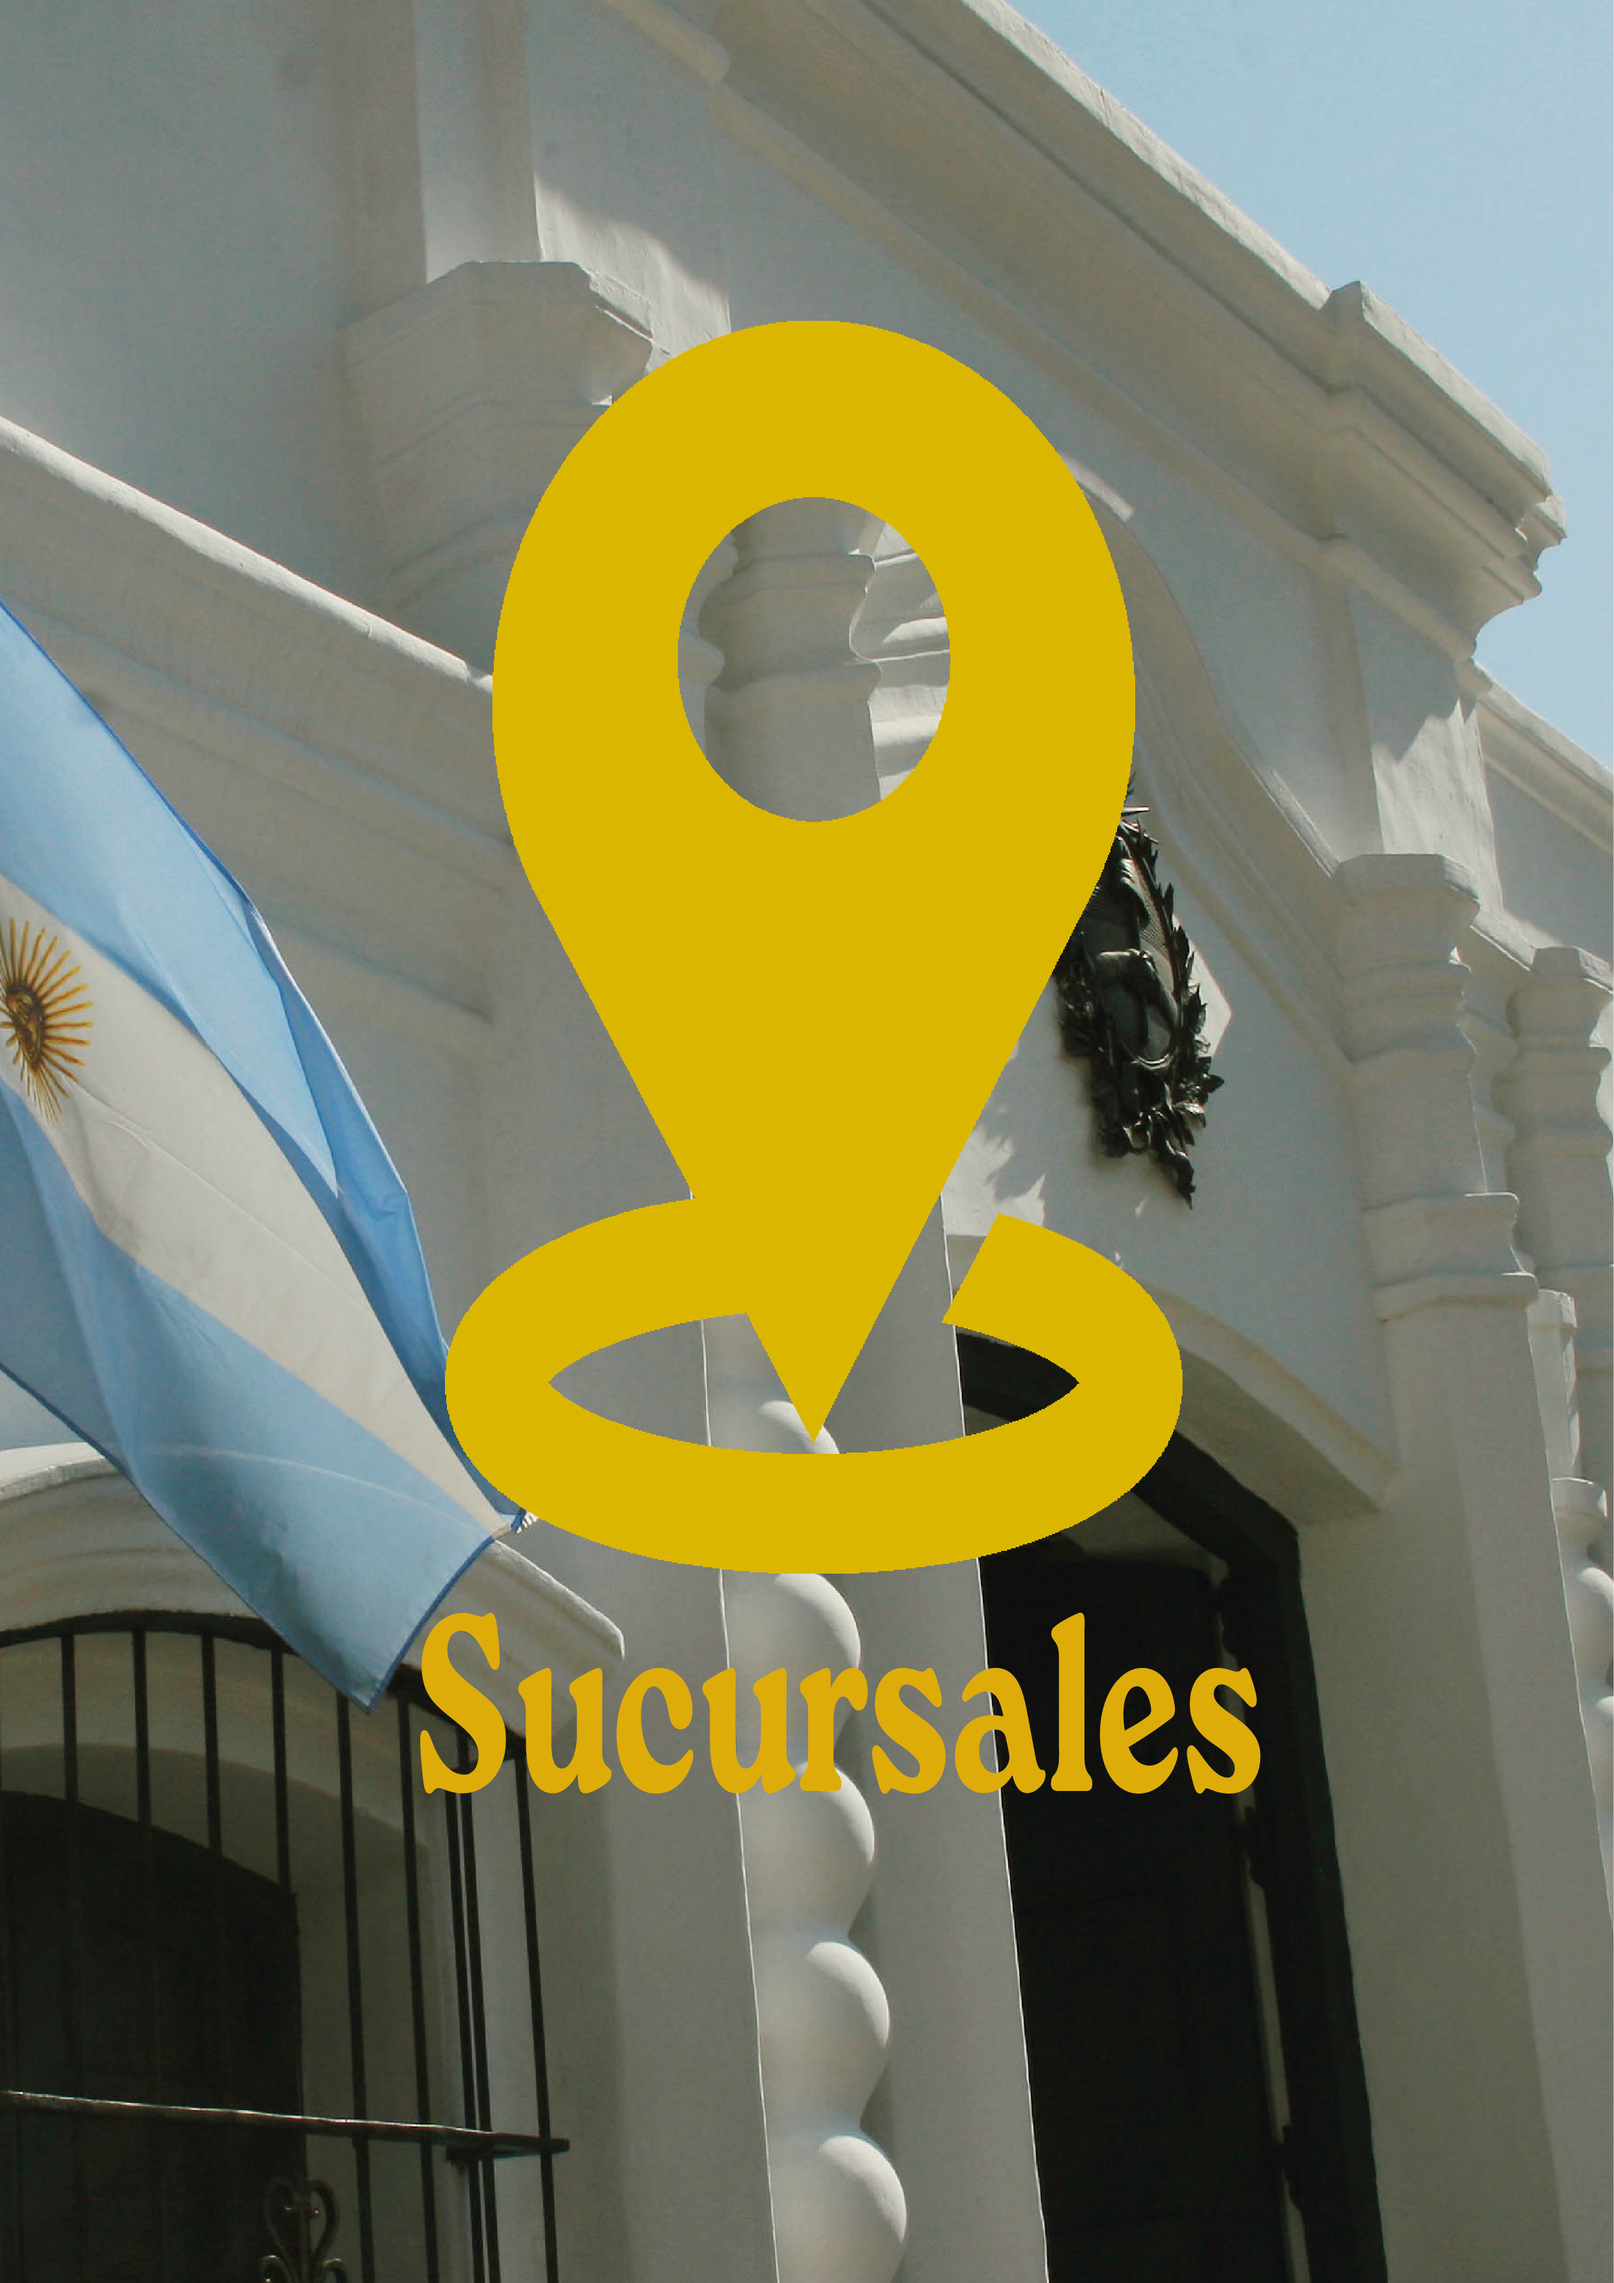
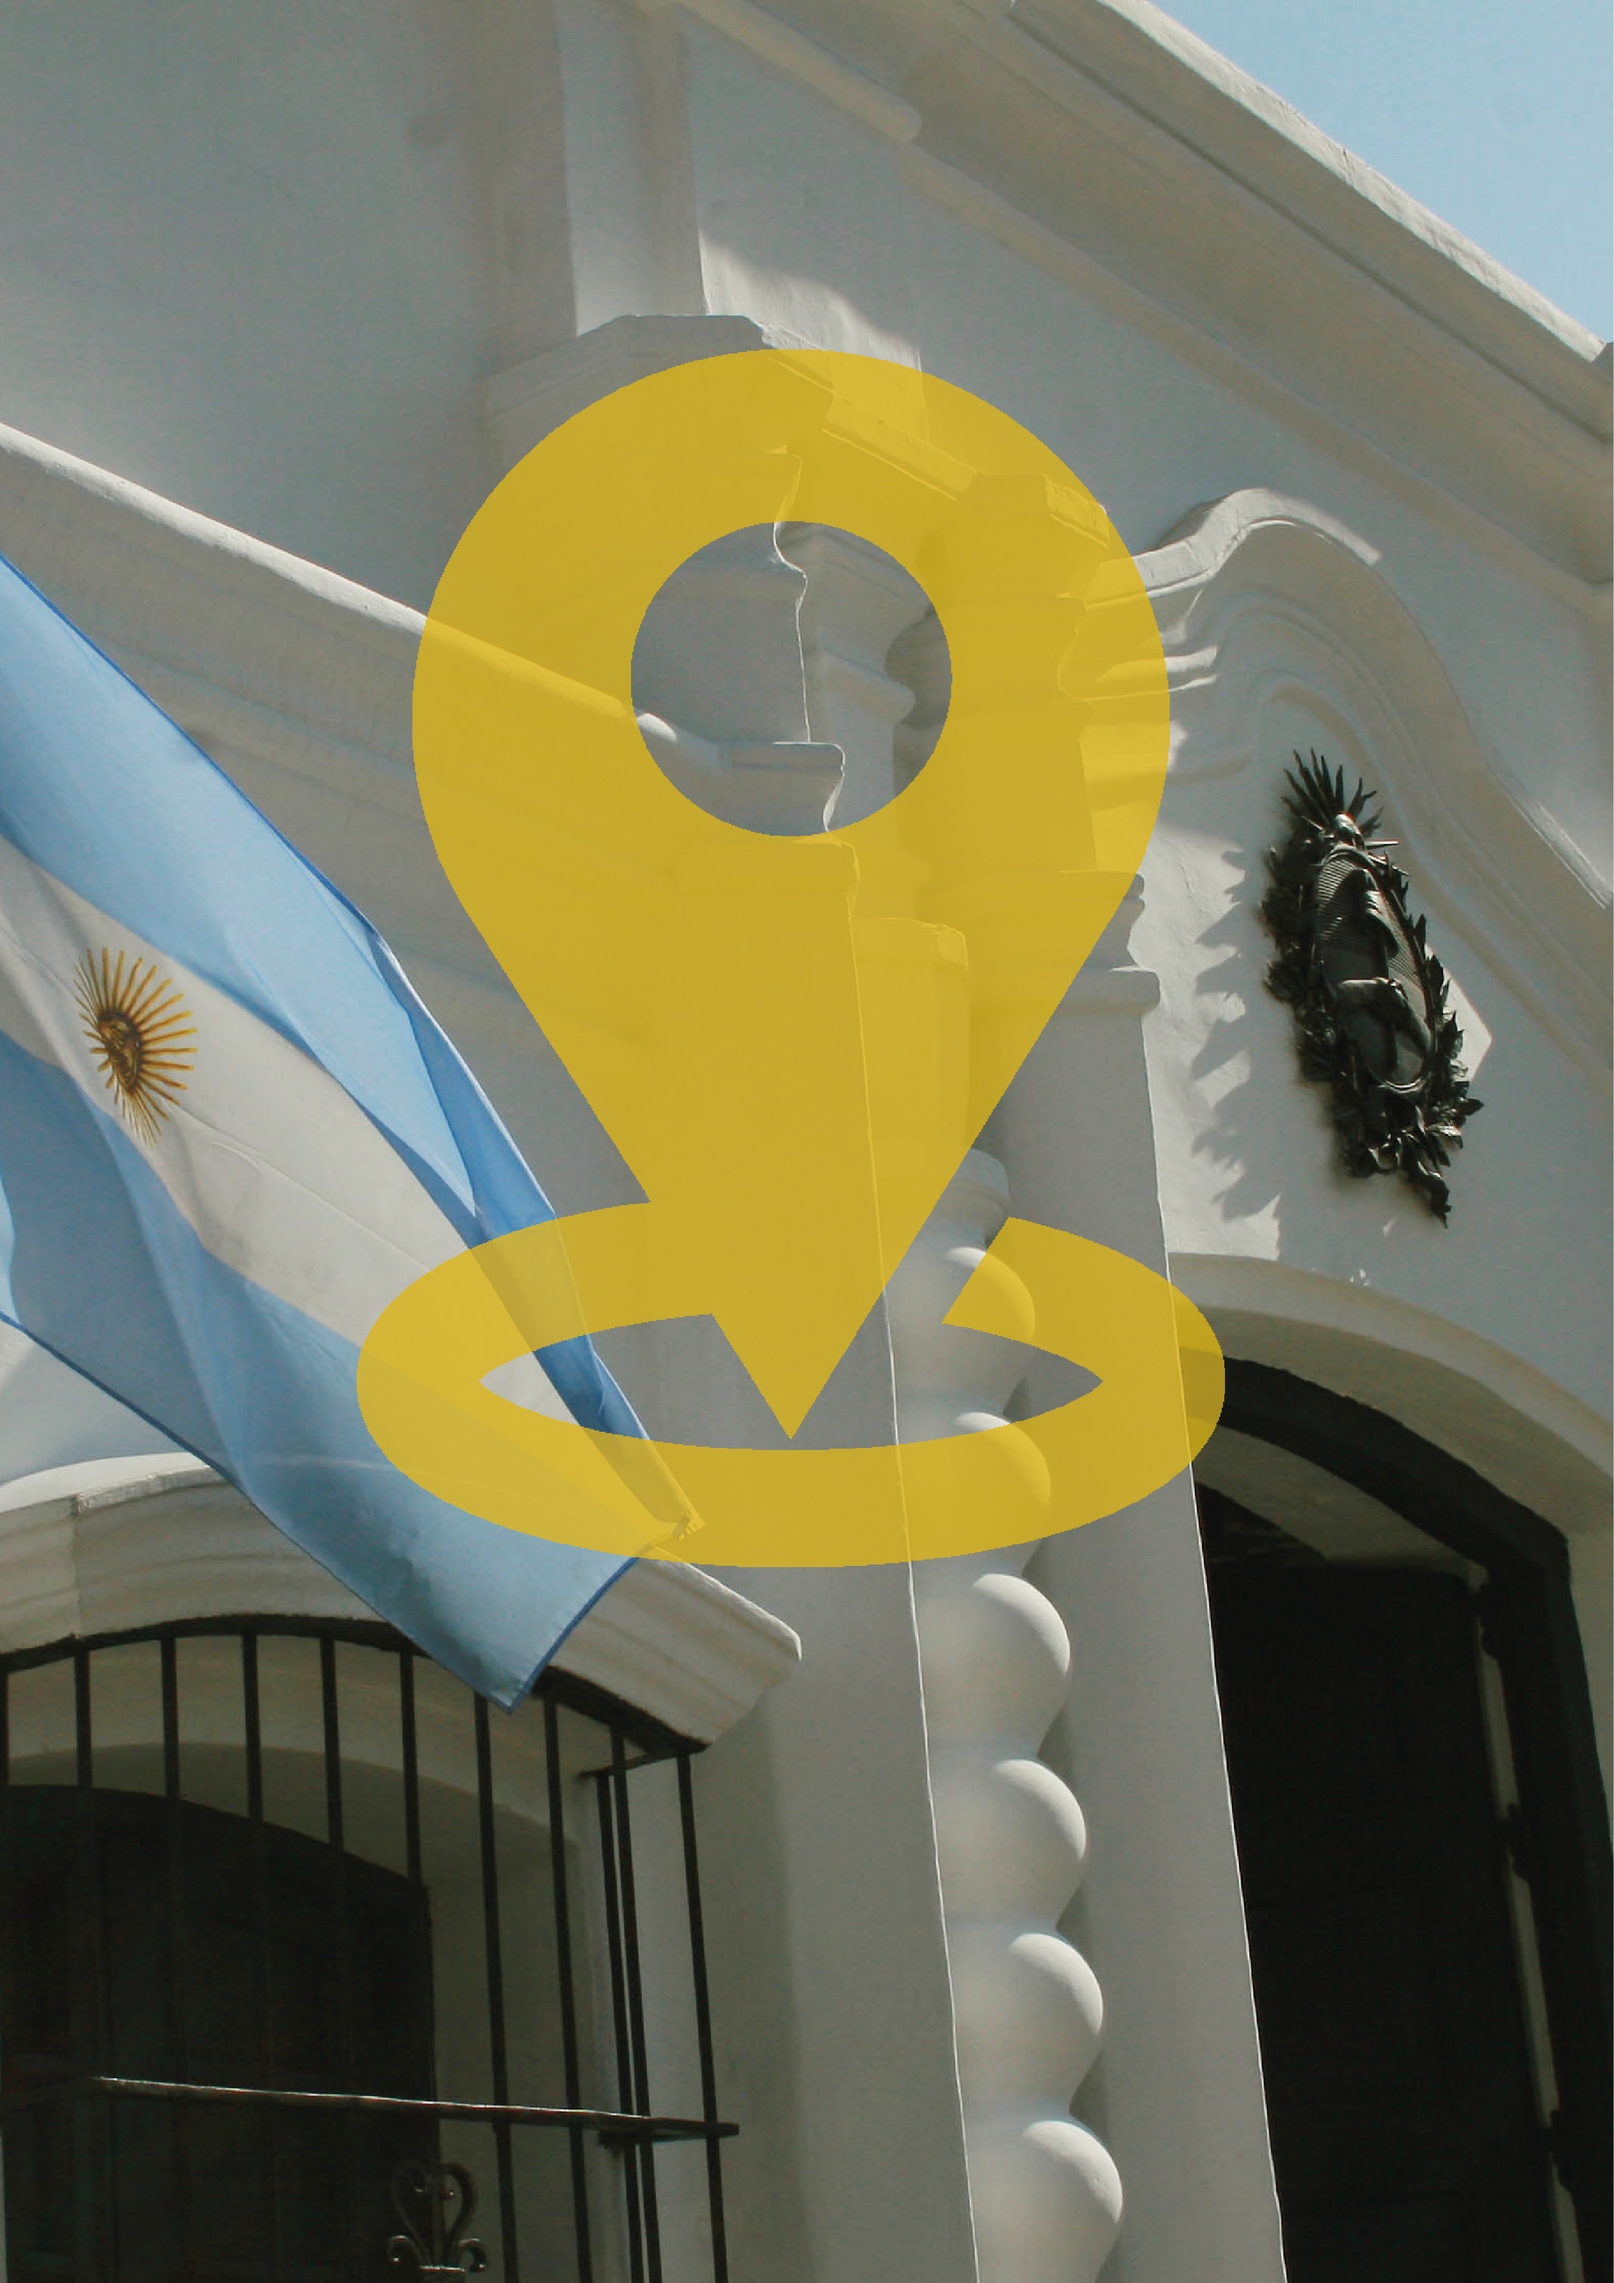
Cambiando las cards de la pagina de inicio y agregando la seccion sobre nosotros en la pagina principal

diff --git a/src/components/paginaPrincipal/PaginaPrincipalV1.jsx b/src/components/paginaPrincipal/PaginaPrincipalV1.jsx
@@ -40,10 +40,9 @@ const PaginaPrincipalV1 = () => {
                     <section className='cardContainer cards2'>
                         <section className='mt-5'>
                             <Card style={{ width: '18rem' }} className='card1 cards3'>
-                                <Card.Img variant="top" src="/src/assets/Nuestro e-Comercve.png" className='img1' />
+                                <Card.Img variant="top" src="/src/assets/E-Comerce.png" className='img1' />
                                 <div className='cardText'>
-                                    <h4 className='text1'><img src="/src/assets/E-comerce.png" alt="E-Comerce" className='img3' /></h4>
-                                    <p className='text-white'>Conoce nuestra nueva tienda de Productos</p>
+                                    <h4 className='text1'><img src="/src/assets/Nuestro-E-comerce.png" alt="E-Comerce" className='img3' /></h4>
                                 </div>
                             </Card>
                         </section>
@@ -52,23 +51,27 @@ const PaginaPrincipalV1 = () => {
                                 <Card.Img variant="top" src="/src/assets/Sucursales.png" className='img1' />
                                 <div className='cardText'>
                                     <h4 className='text1'><img src="/src/assets/Sucursales2.png" alt="Sucursales solo" className='img2' /></h4>
-                                    <p className='text-white'>Conoce donde se ubican nuestras sucursales de productos regionales</p>
                                 </div>
                             </Card>
                         </section>
-                        <section className='mt-5'>
-                            <Card style={{ width: '18rem' }} className='card1 cards3'>
-                                <Card.Img variant="top" src="/src/assets/Sucursales.png" className='img1' />
-                                <div className='cardText'>
-                                    <h4 className='text1'>Sucursales</h4>
-                                    <p className='text-white'>Conoce donde se ubican nuestras sucursales de productos regionales</p>
-                                </div>
-                            </Card>
-                        </section>
+                    </section>
+                    <section>
 
+                        <p><img src="/src/assets/Letras-DelTucuman.png" alt="AlfajoresDelTucuman" className='img4' /></p>
+                    </section>
+                    <section className='div2 conatiner mt-5'>
+                        <div>
+                            <h2 className='text-center mt-4'>Primero comenzareos con la historia de la Casa Historica De Tucumán</h2>
+                            <div className='text2 mt-4'>
+                            <p>Lorem ipsum dolor sit amet consectetur adipisicing elit. Aspernatur commodi enim accusamus officiis! Iste beatae recusandae ex veniam distinctio illum deleniti quasi, esse, ducimus enim illo amet ea tempore. Nam? </p>
+                            </div>
+                            <img src="/src/assets/casaHistoricaRota.jpeg" alt="CasaHistoricaRota.jpeg" className='img5'/>
+                        </div>
                     </section>
                 </Row>
             </Container>
+
+
 
 
             <h1 className='mt-5'>FOOTER</h1>

diff --git a/src/components/paginaPrincipal/paginaPrincipal.css b/src/components/paginaPrincipal/paginaPrincipal.css
@@ -31,11 +31,25 @@
 }
 
 .img2 {
-    width: 46%;
+    width: 90%;
+    margin-top: 270px;
 }
 
 .img3 {
     width: 90%;
+    margin-top: 270px;
+    margin-left: 20px;
+}
+
+.img4 {
+    width: 100%;
+    margin-top: 100px;
+    background-color: #fff;
+}
+
+.img5 {
+   width: 400px;
+   margin-left: 1px;
 }
 
 .card1 {
@@ -54,7 +68,6 @@
     top: 0;
     width: 100%;
     height: 100%;
-    background:  rgba(224, 185, 44, 0.802);
     transition: all 500ms ease-out;
     opacity: 0;
     visibility: hidden;
@@ -74,6 +87,13 @@
     margin: auto;
     max-width: 1500px;
     justify-content: center;
+}
 
+.div2 {
+    display: flex;
+    align-items: center;
+    background-color: #fff;
+    border-radius: 6px;
+    box-shadow: 4px 15px 20px rgba(0, 0, 0, 0.819);
 }
 
